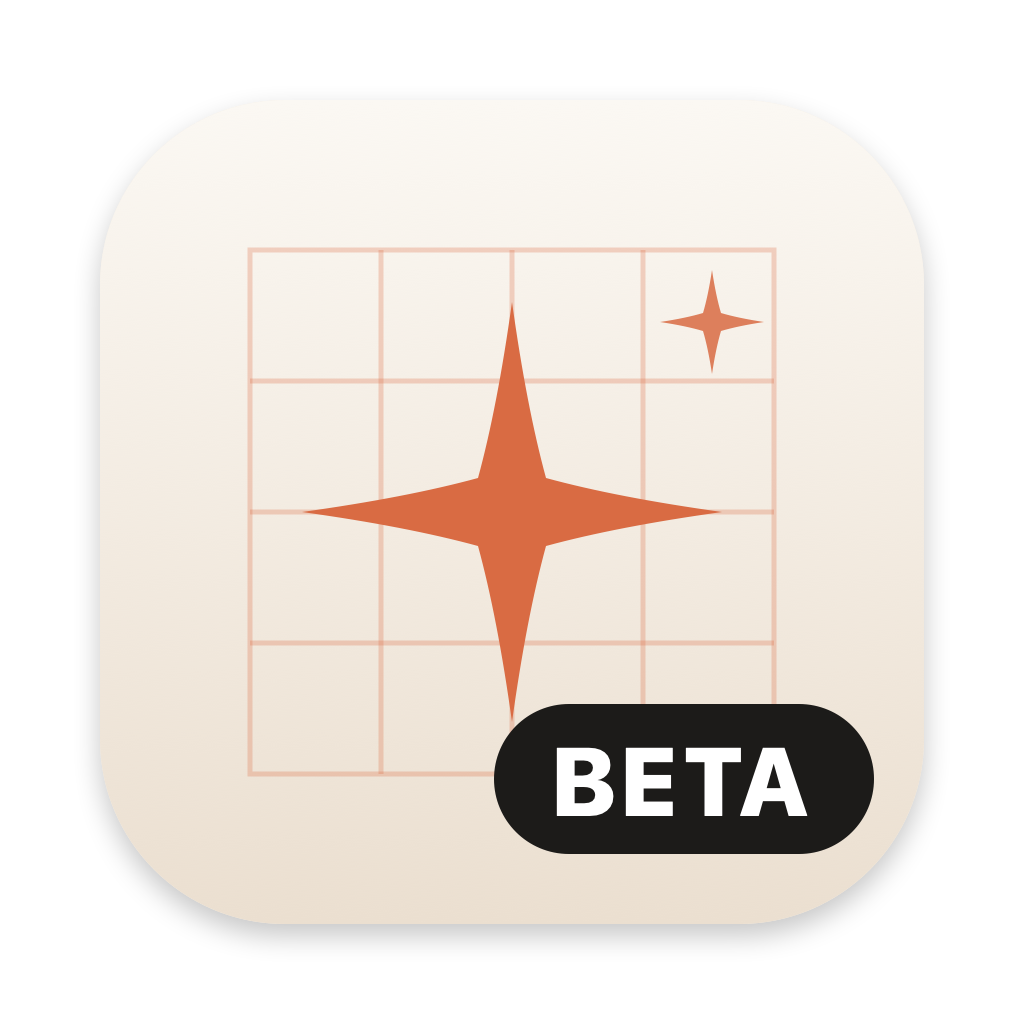
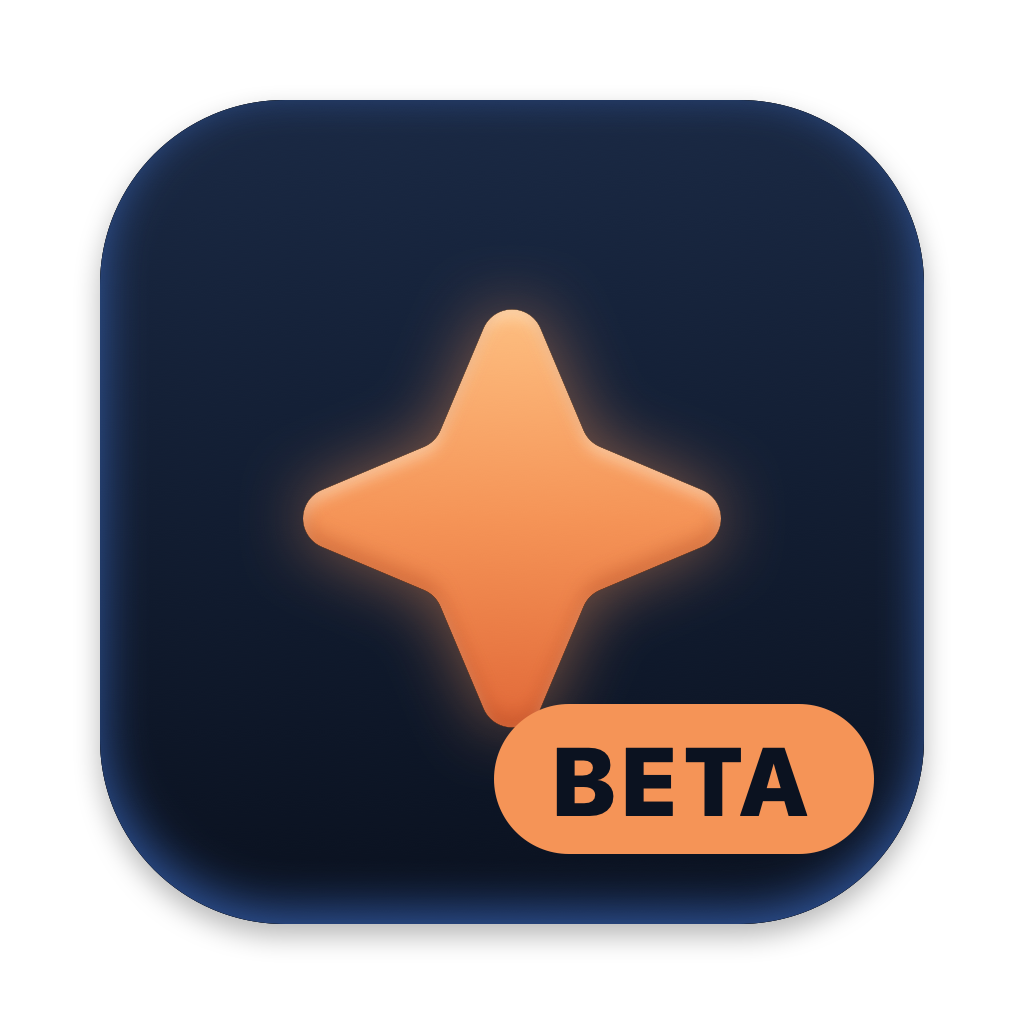
Mac 圖示換成 Figma 新版（夜空藍底＋星橘四芒星，81:792）；介面配色維持原樣

diff --git a/apps/apple/scripts/make-icon.swift b/apps/apple/scripts/make-icon.swift
@@ -1,5 +1,5 @@
 // 產生 App 圖示：swift scripts/make-icon.swift <輸出.png> [beta]（beta：右下角加 BETA 標籤）
-// 暖白圓角方塊＋淡淡的命盤十二宮格線＋中間赭紅四芒星（色票同 Theme.swift 的 zAccent）
+// 夜空藍圓角方塊＋星橘四芒星，照 Figma「Stillink Design System」的 App Icon（node 81:792，300×300）等比放大到 macOS 圖示格
 import AppKit
 
 let size: CGFloat = 1024
@@ -16,71 +16,80 @@ let ctx = CGContext(data: nil, width: Int(size), height: Int(size), bitsPerCompo
 // macOS 圖示格：1024 畫布，主體 824、圓角約 185，留陰影空間
 let body = CGRect(x: 100, y: 100, width: 824, height: 824)
 let shape = CGPath(roundedRect: body, cornerWidth: 185, cornerHeight: 185, transform: nil)
+// Figma 的 300 單位 → 這裡的像素；Figma 的 y 往下，CG 的 y 往上
+let k = body.width / 300
+func fig(_ x: CGFloat, _ y: CGFloat) -> CGPoint { CGPoint(x: body.minX + x * k, y: body.maxY - y * k) }
 
+/// 內陰影：只畫在 path 裡面。dy 用 Figma 的方向（正數往下）
+func innerShadow(_ path: CGPath, color: CGColor, blur: CGFloat, dy: CGFloat) {
+    ctx.saveGState()
+    ctx.addPath(path); ctx.clip()
+    ctx.setShadow(offset: CGSize(width: 0, height: -dy * k), blur: blur * k, color: color)
+    // 外面一大圈實心、中間挖掉 path：陰影從邊緣往內滲
+    let ring = CGMutablePath()
+    ring.addRect(body.insetBy(dx: -400, dy: -400))
+    ring.addPath(path)
+    ctx.addPath(ring); ctx.setFillColor(rgb(0x000000)); ctx.fillPath(using: .evenOdd)
+    ctx.restoreGState()
+}
+
+// 1. 底：外陰影＋夜空漸層（上 #1A2944 → 下 #0A111F）＋底邊一圈藍光
 ctx.saveGState()
-ctx.setShadow(offset: CGSize(width: 0, height: -12), blur: 28, color: rgb(0x000000, 0.22))
-ctx.addPath(shape); ctx.setFillColor(rgb(0xF5EFE6)); ctx.fillPath()
+ctx.setShadow(offset: CGSize(width: 0, height: -12), blur: 28, color: rgb(0x000000, 0.28))
+ctx.addPath(shape); ctx.setFillColor(rgb(0x0A111F)); ctx.fillPath()
 ctx.restoreGState()
 
 ctx.saveGState()
 ctx.addPath(shape); ctx.clip()
-let grad = CGGradient(colorsSpace: cs, colors: [rgb(0xFBF8F3), rgb(0xEBDFD0)] as CFArray, locations: [0, 1])!
-ctx.drawLinearGradient(grad, start: CGPoint(x: 0, y: body.maxY), end: CGPoint(x: 0, y: body.minY), options: [])
+let bg = CGGradient(colorsSpace: cs, colors: [rgb(0x1A2944), rgb(0x0A111F)] as CFArray, locations: [0, 1])!
+ctx.drawLinearGradient(bg, start: CGPoint(x: 0, y: body.maxY), end: CGPoint(x: 0, y: body.minY), options: [])
+ctx.restoreGState()
+innerShadow(shape, color: rgb(0x4F8CFF, 0.55), blur: 17.58, dy: -5.27)
 
-// 十二宮格：4×4 外圈，中間 2×2 留白
-let inset: CGFloat = 150
-let grid = body.insetBy(dx: inset, dy: inset)
-let cell = grid.width / 4
-ctx.setStrokeColor(rgb(0xD96B43, 0.28))
-ctx.setLineWidth(5)
-ctx.stroke(grid)
-for k in 1..<4 {
-    let x = grid.minX + CGFloat(k) * cell, y = grid.minY + CGFloat(k) * cell
-    // 直線：中間那兩條只畫上下兩段（避開中宮）
-    if k == 2 {
-        ctx.strokeLineSegments(between: [CGPoint(x: x, y: grid.minY), CGPoint(x: x, y: grid.minY + cell),
-                                         CGPoint(x: x, y: grid.maxY - cell), CGPoint(x: x, y: grid.maxY)])
-        ctx.strokeLineSegments(between: [CGPoint(x: grid.minX, y: y), CGPoint(x: grid.minX + cell, y: y),
-                                         CGPoint(x: grid.maxX - cell, y: y), CGPoint(x: grid.maxX, y: y)])
-    } else {
-        ctx.strokeLineSegments(between: [CGPoint(x: x, y: grid.minY), CGPoint(x: x, y: grid.maxY)])
-        ctx.strokeLineSegments(between: [CGPoint(x: grid.minX, y: y), CGPoint(x: grid.maxX, y: y)])
+// 2. 四芒星：Figma STAR（4 角、內半徑 0.42、圓角 11.25），框 x 56.25 y 58.59 大小 187.5
+func roundedStar(center c: CGPoint, r: CGFloat, inner: CGFloat, corner: CGFloat) -> CGPath {
+    var pts: [CGPoint] = []
+    for i in 0..<8 {
+        let a = CGFloat.pi / 2 - CGFloat(i) * .pi / 4
+        let rr = i % 2 == 0 ? r : r * inner
+        pts.append(CGPoint(x: c.x + rr * cos(a), y: c.y + rr * sin(a)))
     }
-}
-
-// 中宮四芒星
-func sparkle(center c: CGPoint, r: CGFloat, waist: CGFloat) -> CGPath {
     let p = CGMutablePath()
-    let pts: [CGPoint] = [
-        CGPoint(x: c.x, y: c.y + r), CGPoint(x: c.x + waist, y: c.y + waist),
-        CGPoint(x: c.x + r, y: c.y), CGPoint(x: c.x + waist, y: c.y - waist),
-        CGPoint(x: c.x, y: c.y - r), CGPoint(x: c.x - waist, y: c.y - waist),
-        CGPoint(x: c.x - r, y: c.y), CGPoint(x: c.x - waist, y: c.y + waist),
-    ]
-    p.move(to: pts[0])
-    for i in 1...8 {
-        let a = pts[(i - 1) % 8], b = pts[i % 8]
-        // 弧邊讓星形更柔和
-        let mid = CGPoint(x: (a.x + b.x) / 2 * 0.86 + c.x * 0.14, y: (a.y + b.y) / 2 * 0.86 + c.y * 0.14)
-        p.addQuadCurve(to: b, control: mid)
-    }
+    let start = CGPoint(x: (pts[7].x + pts[0].x) / 2, y: (pts[7].y + pts[0].y) / 2)
+    p.move(to: start)
+    for i in 0..<8 { p.addArc(tangent1End: pts[i], tangent2End: pts[(i + 1) % 8], radius: corner) }
     p.closeSubpath()
     return p
 }
-let center = CGPoint(x: body.midX, y: body.midY)
-ctx.addPath(sparkle(center: center, r: 210, waist: 34)); ctx.setFillColor(rgb(0xD96B43)); ctx.fillPath()
-ctx.addPath(sparkle(center: CGPoint(x: center.x + 200, y: center.y + 190), r: 52, waist: 9)); ctx.setFillColor(rgb(0xD96B43, 0.85)); ctx.fillPath()
+let starBox = CGRect(origin: fig(56.25, 58.59 + 187.5), size: CGSize(width: 187.5 * k, height: 187.5 * k))
+let star = roundedStar(center: CGPoint(x: starBox.midX, y: starBox.midY), r: starBox.width / 2, inner: 0.42, corner: 11.25 * k)
+
+// 橘色光暈
+ctx.saveGState()
+ctx.addPath(shape); ctx.clip()
+ctx.setShadow(offset: .zero, blur: 26.37 * k, color: rgb(0xF59457, 0.5))
+ctx.addPath(star); ctx.setFillColor(rgb(0xF59457)); ctx.fillPath()
 ctx.restoreGState()
 
-// 測試版：右下角深色膠囊＋白字 BETA
+// 星體漸層（上 #FFC88A → 中 #F59457 → 下 #DD5F31）
+ctx.saveGState()
+ctx.addPath(star); ctx.clip()
+let sg = CGGradient(colorsSpace: cs, colors: [rgb(0xFFC88A), rgb(0xF59457), rgb(0xDD5F31)] as CFArray, locations: [0, 0.5, 1])!
+ctx.drawLinearGradient(sg, start: CGPoint(x: 0, y: starBox.maxY), end: CGPoint(x: 0, y: starBox.minY), options: [])
+ctx.restoreGState()
+innerShadow(star, color: rgb(0xFFF0D8, 0.5), blur: 5.27, dy: 2.93)    // 上緣亮邊
+innerShadow(star, color: rgb(0x9C3A18, 0.35), blur: 7.62, dy: -4.10)  // 下緣暗邊
+
+// 測試版：右下角星橘膠囊＋夜空色字 BETA
 if CommandLine.arguments.count > 2 && CommandLine.arguments[2] == "beta" {
     let pill = CGRect(x: body.maxX - 430, y: body.minY + 70, width: 380, height: 150)
     ctx.addPath(CGPath(roundedRect: pill, cornerWidth: 75, cornerHeight: 75, transform: nil))
-    ctx.setFillColor(rgb(0x1C1B19)); ctx.fillPath()
+    ctx.setFillColor(rgb(0xF59457)); ctx.fillPath()
     NSGraphicsContext.saveGraphicsState()
     NSGraphicsContext.current = NSGraphicsContext(cgContext: ctx, flipped: false)
     let para = NSMutableParagraphStyle(); para.alignment = .center
-    let attrs: [NSAttributedString.Key: Any] = [.font: NSFont.systemFont(ofSize: 96, weight: .heavy), .foregroundColor: NSColor.white,
+    let attrs: [NSAttributedString.Key: Any] = [.font: NSFont.systemFont(ofSize: 96, weight: .heavy),
+                                                .foregroundColor: NSColor(cgColor: rgb(0x0B1220))!,
                                                 .paragraphStyle: para, .kern: 6]
     let t = NSAttributedString(string: "BETA", attributes: attrs)
     let h = t.size().height
